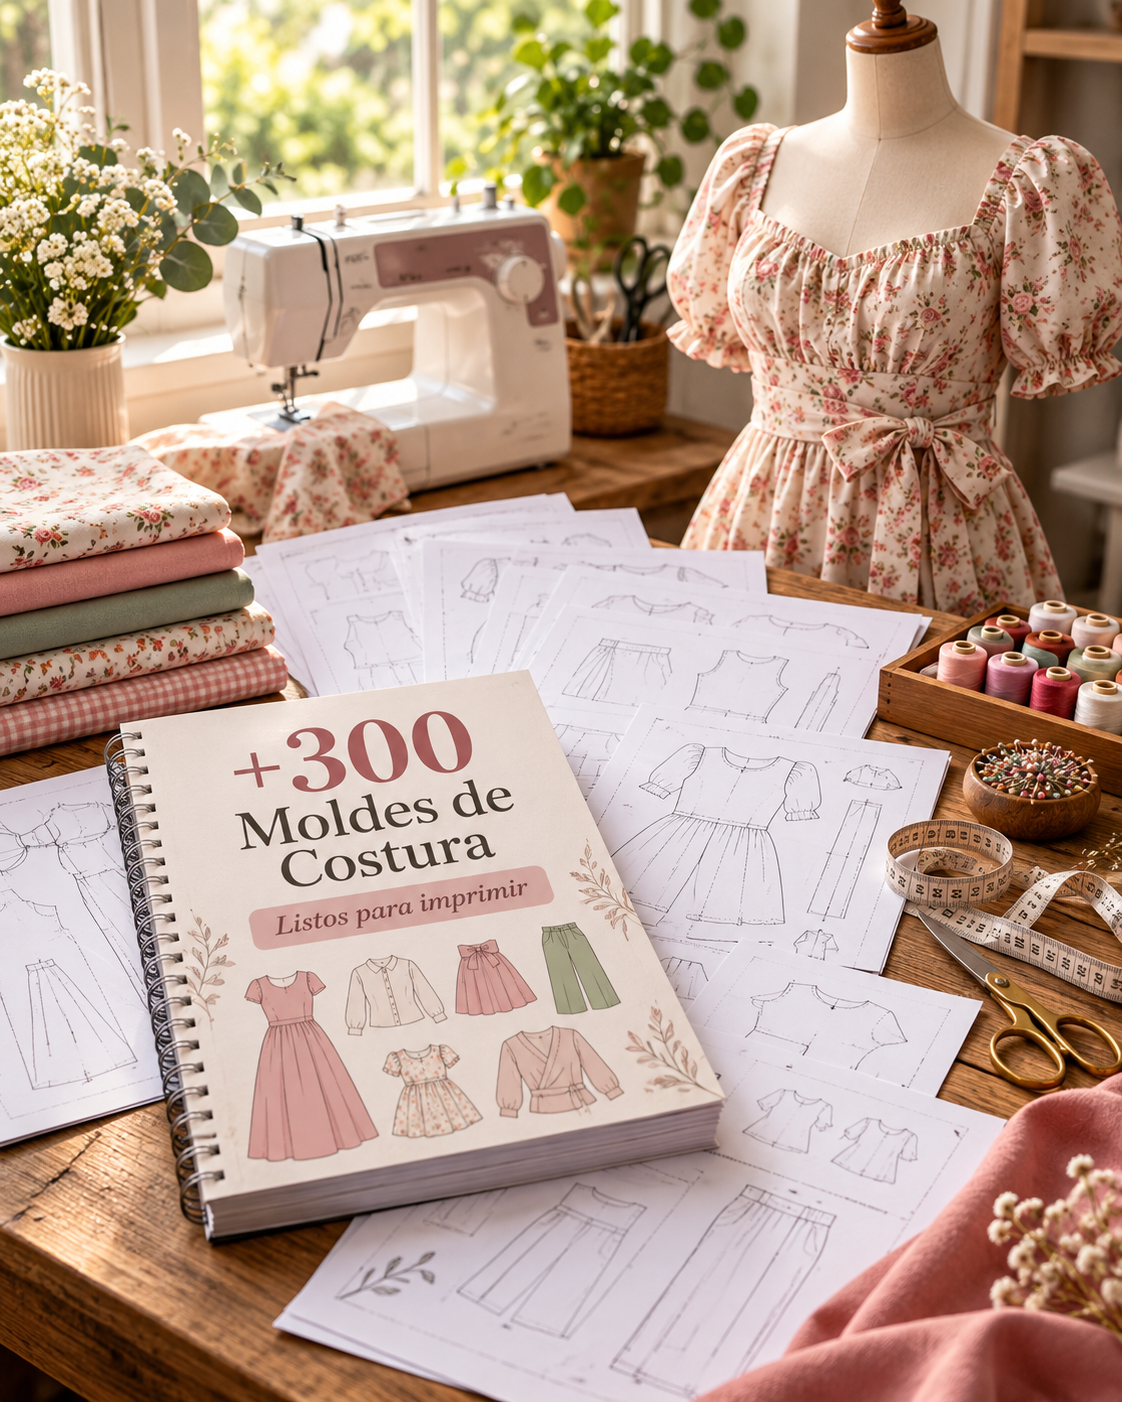
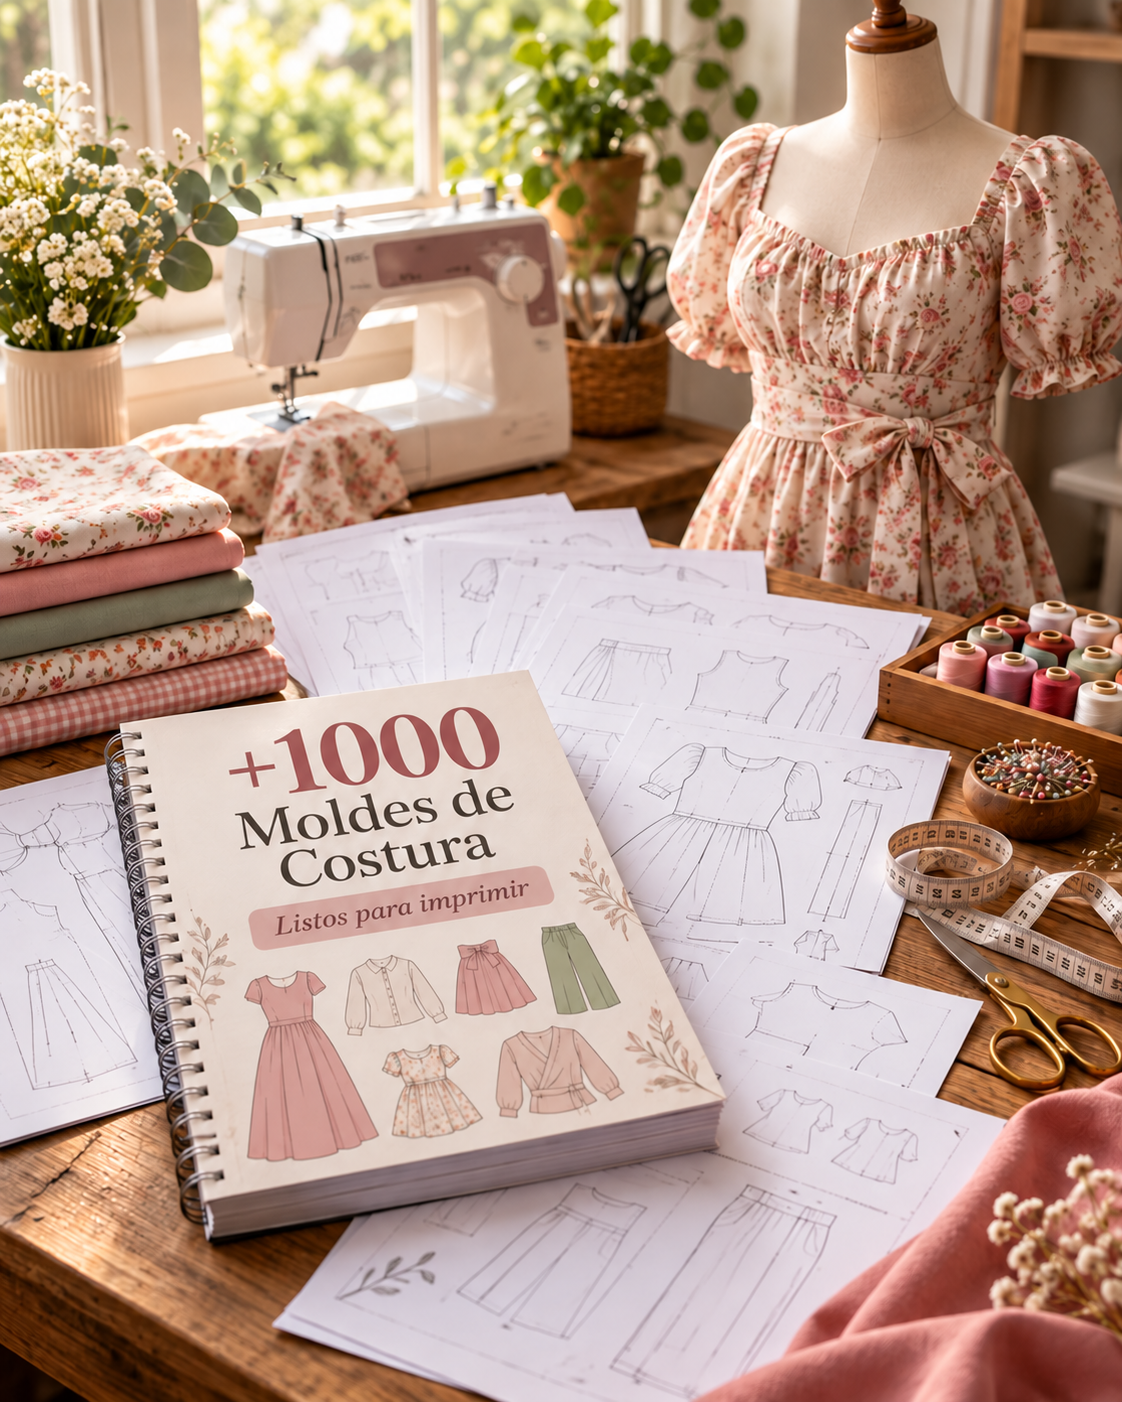
feat: add Meta Pixel and update product quantity
Integrate Meta Pixel for tracking and update copy to reflect the new count of 1,000 sewing patterns.

diff --git a/index.html b/index.html
@@ -3,19 +3,34 @@
   <head>
     <meta charset="UTF-8" />
     <meta name="viewport" content="width=device-width, initial-scale=1.0" />
-    <title>+300 Moldes de Costura en PDF | Listos para Imprimir</title>
-    <meta name="description" content="Accede a una colección digital con más de 300 moldes de costura en PDF para imprimir y utilizar en diferentes proyectos." />
+    <title>+1.000 Moldes de Costura en PDF | Listos para Imprimir</title>
+    <meta name="description" content="Accede a una colección digital con más de 1.000 moldes de costura en PDF para imprimir y utilizar en diferentes proyectos." />
     
+    <!-- Meta Pixel Code -->
+    <script>
+      !function(f,b,e,v,n,t,s)
+      {if(f.fbq)return;n=f.fbq=function(){n.callMethod?
+      n.callMethod.apply(n,arguments):n.queue.push(arguments)};
+      if(!f._fbq)f._fbq=n;n.push=n;n.loaded=!0;n.version='2.0';
+      n.queue=[];t=b.createElement(e);t.async=!0;
+      t.src=v;s=b.getElementsByTagName(e)[0];
+      s.parentNode.insertBefore(t,s)}(window, document,'script',
+      'https://connect.facebook.net/en_US/fbevents.js');
+      fbq('init', '2129948864262660');
+      fbq('track', 'PageView');
+    </script>
+    <!-- End Meta Pixel Code -->
+
     <!-- OpenGraph Tags -->
     <meta property="og:type" content="website" />
-    <meta property="og:title" content="+300 Moldes de Costura en PDF | Listos para Imprimir" />
-    <meta property="og:description" content="Accede a una colección digital con más de 300 moldes de costura en PDF para imprimir y utilizar en diferentes proyectos." />
-    <meta property="og:site_name" content="+300 Moldes de Costura" />
+    <meta property="og:title" content="+1.000 Moldes de Costura en PDF | Listos para Imprimir" />
+    <meta property="og:description" content="Accede a una colección digital con más de 1.000 moldes de costura en PDF para imprimir y utilizar en diferentes proyectos." />
+    <meta property="og:site_name" content="+1.000 Moldes de Costura" />
     
     <!-- Twitter Cards -->
     <meta name="twitter:card" content="summary_large_image" />
-    <meta name="twitter:title" content="+300 Moldes de Costura en PDF | Listos para Imprimir" />
-    <meta name="twitter:description" content="Accede a una colección digital con más de 300 moldes de costura en PDF para imprimir y utilizar en diferentes proyectos." />
+    <meta name="twitter:title" content="+1.000 Moldes de Costura en PDF | Listos para Imprimir" />
+    <meta name="twitter:description" content="Accede a una colección digital con más de 1.000 moldes de costura en PDF para imprimir y utilizar en diferentes proyectos." />
 
     <!-- Google Fonts -->
     <link rel="preconnect" href="https://fonts.googleapis.com">
@@ -27,19 +42,26 @@
     {
       "@context": "https://schema.org",
       "@type": "Product",
-      "name": "+300 Moldes de Costura en PDF",
-      "description": "Colección digital de más de 300 moldes de costura en archivos PDF listos para imprimir y usar.",
+      "name": "+1.000 Moldes de Costura en PDF",
+      "description": "Colección digital de más de 1.000 moldes de costura en archivos PDF listos para imprimir y usar.",
       "category": "Patrones y Moldes de Costura Digitales",
       "offers": {
         "@type": "Offer",
         "availability": "https://schema.org/InStock",
-        "price": "19.00",
-        "priceCurrency": "USD"
+        "price": "25900",
+        "priceCurrency": "COP"
       }
     }
     </script>
   </head>
   <body class="bg-[#FAF7F2] text-[#0F172A] antialiased selection:bg-[#2563EB]/20 selection:text-[#1E3A8A]">
+    <!-- Meta Pixel noscript fallback -->
+    <noscript>
+      <img height="1" width="1" style="display:none"
+        src="https://www.facebook.com/tr?id=2129948864262660&ev=PageView&noscript=1"
+        alt=""
+      />
+    </noscript>
     <div id="root"></div>
     <script type="module" src="/src/main.tsx"></script>
   </body>
